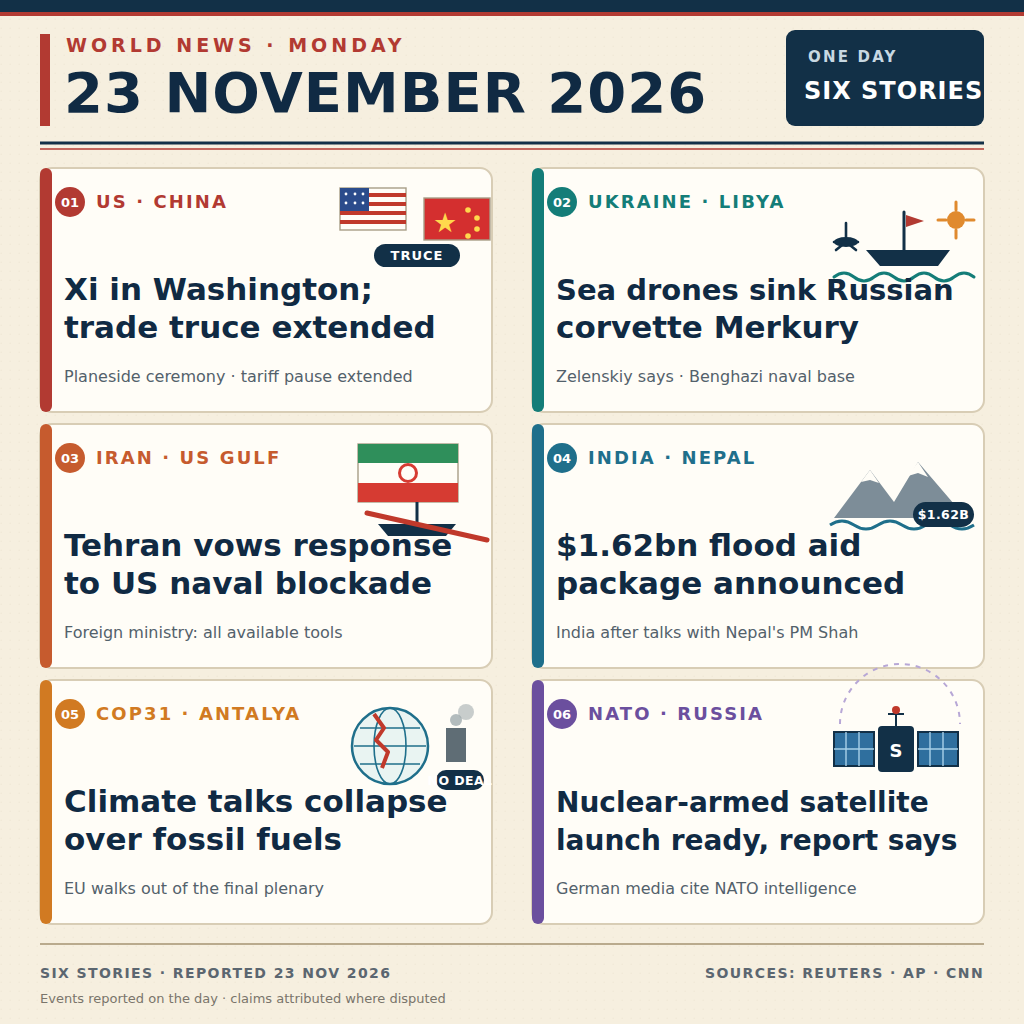
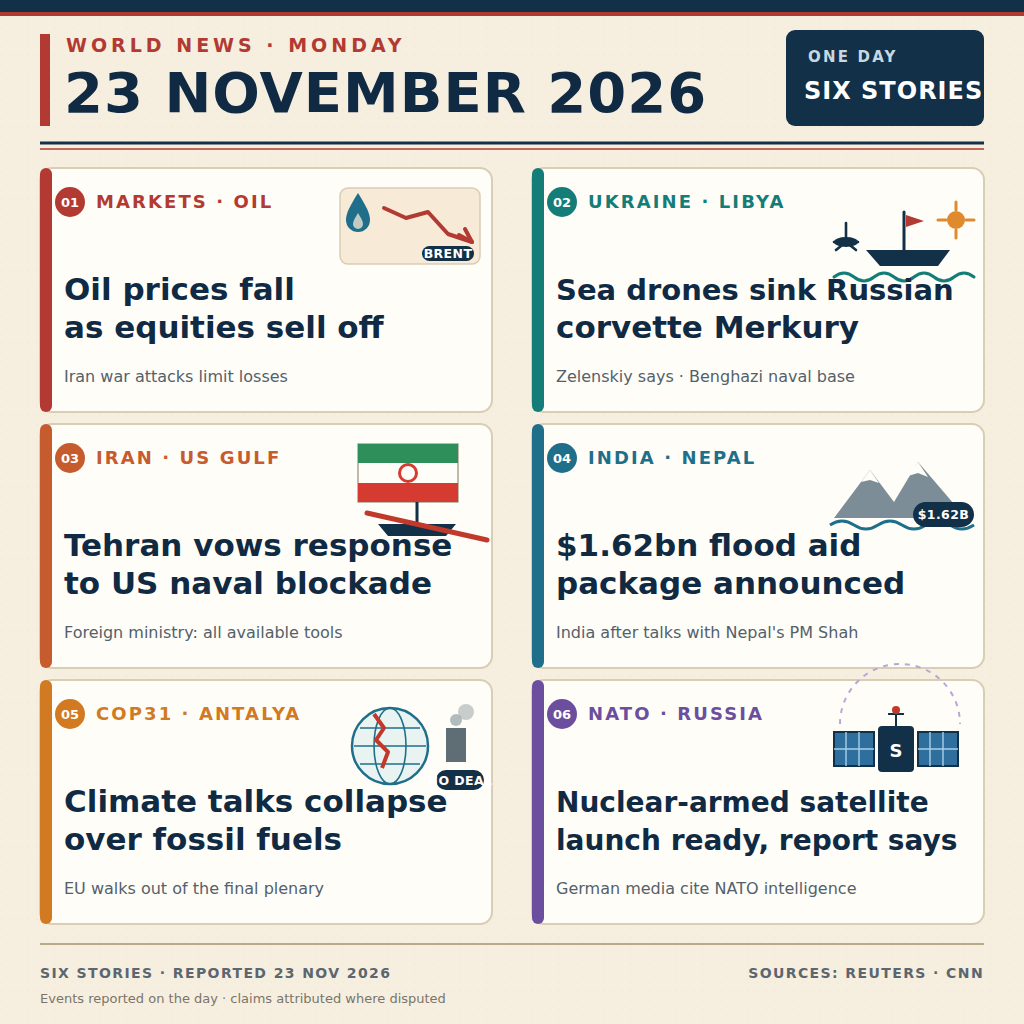
Correct story 1 to verified 23 Nov oil and equity selloff report

Changed region(s): [[0.0625, 0.1562, 0.5, 0.375], [0.6875, 0.9375, 0.9062, 0.9688], [0.0938, 0.1875, 0.25, 0.2188]]

diff --git a/SOURCES.md b/SOURCES.md
@@ -2,7 +2,7 @@
 
 These are the six stories summarised in `entry.png`. Each was reported or first published on 23 November 2026 in at least one time zone. Disputed claims are attributed in the image.
 
-1. **Trump welcomes China's Xi to Washington with planeside ceremony and extension of trade truce** — AP. https://apnews.com/article/trump-xi-arrival-washington-state-visit-baea8dbdb8c832ae1b295579709dc967
+1. **Oil prices fall amid equity selloff though Iran war attacks limit losses** — Reuters. https://www.reuters.com/business/energy/oil-prices-fall-amid-equity-selloff-though-iran-war-attacks-limit-losses-2026-11-23
 2. **Zelenskiy says Ukraine sank Russian corvette near Libya's coast, hit cargo ship** — Reuters. https://www.reuters.com/world/europe/zelenskiy-says-ukraine-sank-russian-corvette-near-libyas-coast-hit-cargo-ship-2026-11-23/
 3. **Iran says it will use all available tools to confront US naval blockade** — Reuters. https://www.reuters.com/world/middle-east/iran-says-it-will-use-all-available-tools-confront-us-naval-blockade-2026-11-23/
 4. **India to give $1.62 billion economic package to flood-hit Nepal** — Reuters. https://www.reuters.com/world/india/india-give-162-billion-economic-package-flood-hit-nepal-2026-11-23/

diff --git a/README.md b/README.md
@@ -4,7 +4,7 @@
 [![rank](https://make.fun/badge/news-image-20261123/ariaeren/news-image-20261123-karyawan-v5/rank.svg)](https://make.fun/bounty/news-image-20261123/leaderboard?utm_source=github&utm_medium=readme&utm_campaign=news-image-20261123)
 [![reward](https://make.fun/badge/news-image-20261123/ariaeren/news-image-20261123-karyawan-v5/reward.svg)](https://make.fun/bounty/news-image-20261123?utm_source=github&utm_medium=readme&utm_campaign=news-image-20261123)
 
-A hand-drawn editorial infographic for Monday 23 November 2026: six verified world stories across diplomacy, war, climate, disaster aid and space, rendered offline to a 1024×1024 PNG.
+A hand-drawn editorial infographic for Monday 23 November 2026: six verified world stories across markets, war, climate, disaster aid and space, rendered offline to a 1024×1024 PNG.
 
 ## Run it
 
